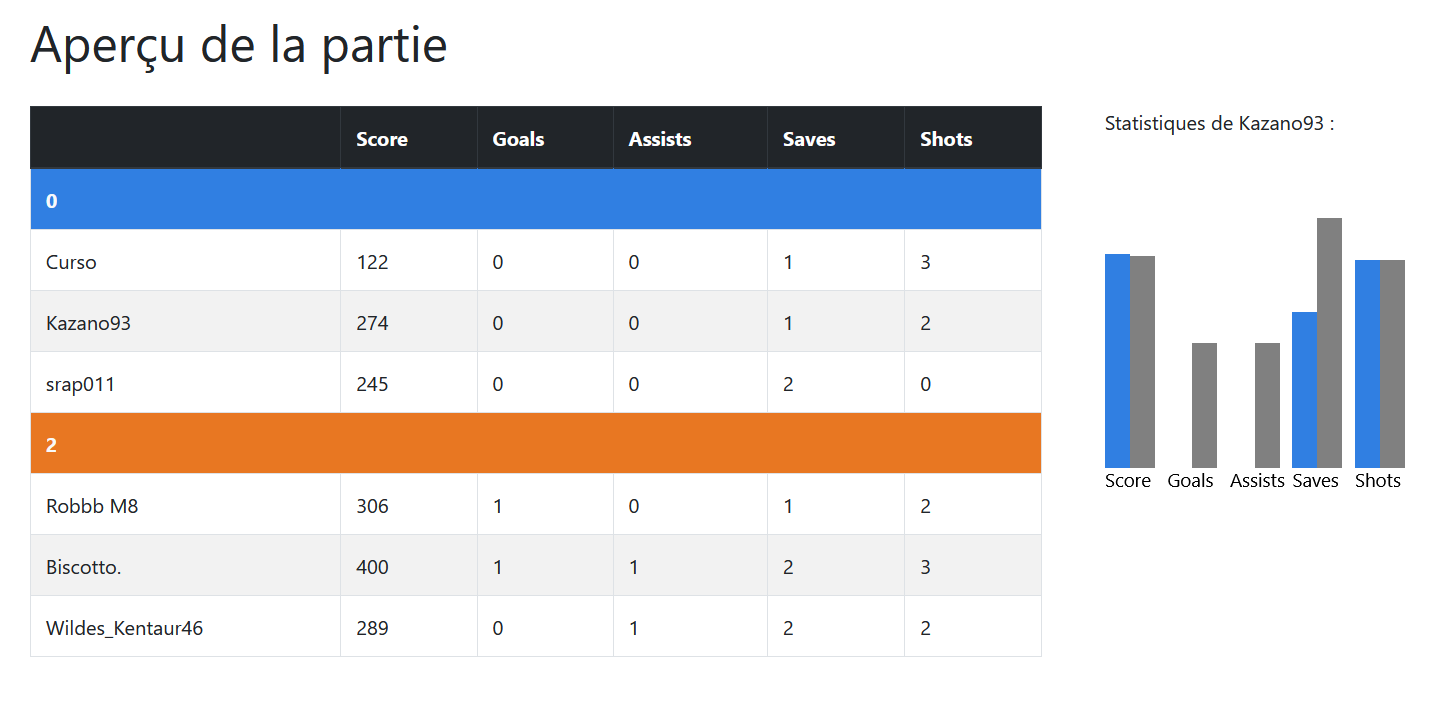
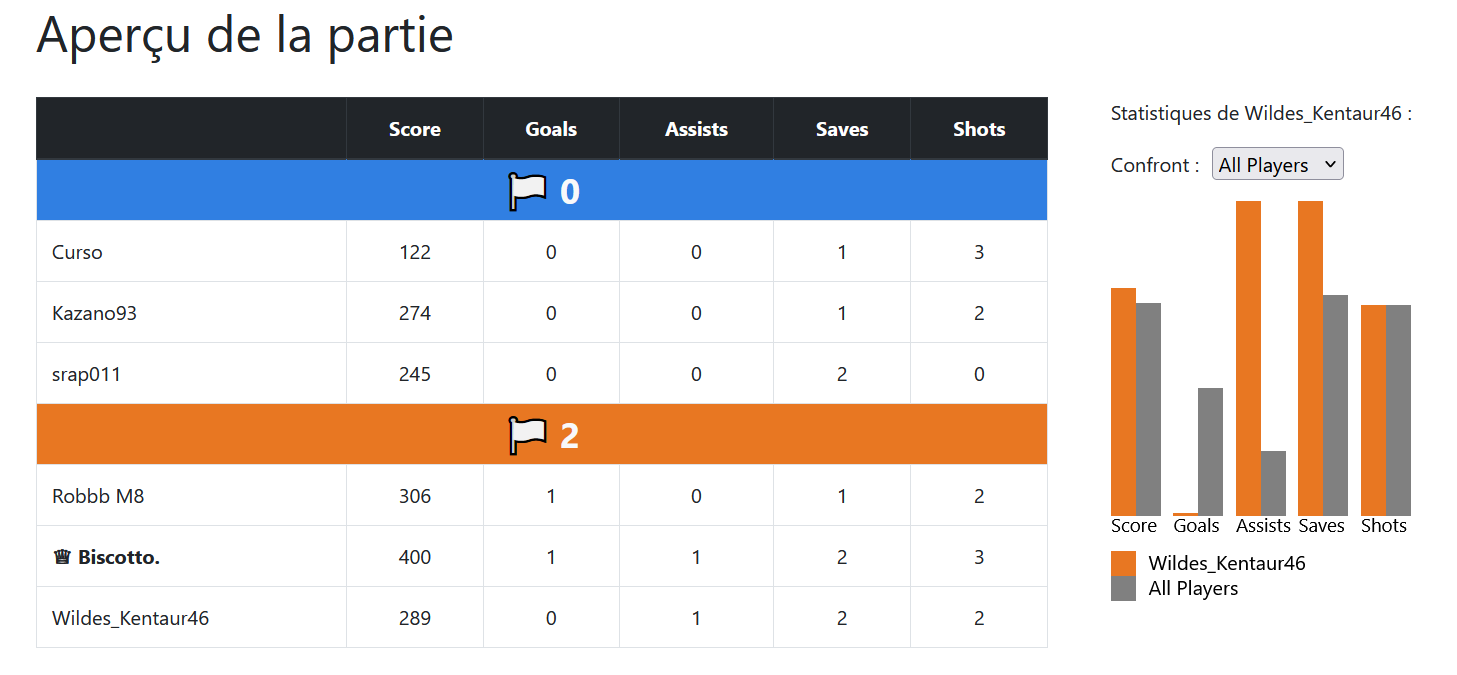
French => English + couleur de la timeline.

diff --git a/script_stats.js b/script_stats.js
@@ -388,7 +388,7 @@ function displayTimeline(data) {
     .attr("y", height / 4 - 5)
     .attr("width", width)
     .attr("height", 18)
-    .attr("fill", "blue");
+    .attr("fill", "#307fe2");
 
   svg
     .append("rect")
@@ -396,16 +396,16 @@ function displayTimeline(data) {
     .attr("y", height / 3 - 5)
     .attr("width", width)
     .attr("height", 18)
-    .attr("fill", "orange");
+    .attr("fill", "#e87722");
 
   // Ajout du texte pour chaque équipe
   svg
     .append("text")
     .attr("x", -10)
     .attr("y", height / 4)
-    .attr("text-anchor", "end")
-    .text("Equipe Bleue")
-    .attr("fill", "blue")
+    .attr("text-anchor", "end") 
+    .text("Blue Team")
+    .attr("fill", "#307fe2")
     .attr("font-size", "13px");
 
   svg
@@ -413,15 +413,15 @@ function displayTimeline(data) {
     .attr("x", -10)
     .attr("y", height / 3)
     .attr("text-anchor", "end")
-    .text("Equipe Orange")
-    .attr("fill", "orange")
+    .text("Orange Team")
+    .attr("fill", "#e87722")
     .attr("font-size", "13px");
 
   svg
     .append("text")
     .attr("x", width / 2)
     .attr("y", height / 2 - 10)
-    .text(`La partie à durée : ${maxDuration}`)
+    .text(`The game lasted ${maxDuration}`)
     .attr("font-size", "12px")
     .style("dominant-baseline", "hanging");
 
@@ -541,9 +541,9 @@ function displayTimeline(data) {
   Partie 4: La légende
   */
   const legendData = [
-    { icon: "img/goal_icon.png", description: "But" },
-    { icon: "img/save_icon.png", description: "Sauvegarde" },
-    { icon: "img/demolition_icon.png", description: "Joueur détruit" },
+    { icon: "img/goal_icon.png", description: "Goal" },
+    { icon: "img/save_icon.png", description: "Save" },
+    { icon: "img/demolition_icon.png", description: "Destroyed player (joueur détruit)" },
   ];
 
   const legendContainer = d3.select("#legend");
@@ -1159,7 +1159,7 @@ function getMaxTempsPartie(nbFrames, framerate) {
   const dureeEnMinutes = Math.floor(dureeEnSecondes / 60); // Partie entière des minutes
   const dureeEnSecondesRestantes = Math.round(dureeEnSecondes % 60); // Partie en secondes
 
-  return `${dureeEnMinutes} minutes et ${dureeEnSecondesRestantes} secondes`;
+  return `${dureeEnMinutes} minutes and ${dureeEnSecondesRestantes} seconds`;
 }
 
 function getListeFramesHighlights(data) {
@@ -1311,7 +1311,7 @@ function displayPlayerStats(data) {
 
   var width = d3.select("body").node().getBoundingClientRect().width;
 
-  d3.selectAll("#content").append("h1").text("Statistiques par équipe");
+  d3.selectAll("#content").append("h1").text("Team Statistics");
   displayOverviewStats(overviewStats);
 
   var locationBall = getLocations(data, 0);
@@ -1405,7 +1405,7 @@ function handleRowSelection(teamsStats, selectedPlayer) {
 
   var playerName = selectedPlayer.Name;
 
-  var textPlayerName = "Statistiques de " + playerName + " : ";
+  var textPlayerName = playerName + "'s statistics : ";
 
   d3.select("#barChartSelect").append("p").text(textPlayerName);
 

diff --git a/stats.html b/stats.html
@@ -8,21 +8,6 @@
     <!-- Bootstrap CSS -->
     <link href="https://maxcdn.bootstrapcdn.com/bootstrap/4.0.0/css/bootstrap.min.css" rel="stylesheet">
     <link href="style.css" rel="stylesheet">
-    <link href="style.css" rel="stylesheet">
-    
-
-    <!-- Custom CSS -->
-    <style>
-        #timeline {
-            display: none;
-            border: 3px solid black;
-            height: 270px;
-        }
-
-        .timeline-visible {
-            display: block;
-        }
-    </style>
 
     <script type="text/javascript" src="https://cdnjs.cloudflare.com/ajax/libs/d3/3.5.17/d3.min.js"></script>
     <script src="https://d3js.org/d3.v5.min.js"></script>
@@ -63,7 +48,7 @@
 
     <!-- Table Section -->
     <div class="container mt-3">
-        <h1> Aperçu de la partie </h1>
+        <h1> Scoreboard </h1>
 
         <!-- Create an empty table with an id -->
         <div class="table-and-chart-container">
@@ -94,7 +79,7 @@
 
     <!-- Sélection d'un fichier -->
     <div id="element-ancre">
-        <label for="select-files">Choisir un fichier : </label></br>
+        <label for="select-files">Chose a file : </label></br>
         <select id="select-files"></select>
     </div>
 

diff --git a/style.css b/style.css
@@ -95,4 +95,13 @@ text {
 	/* padding: 10px; */ 
 	/* background-color: #f0f0f0;
 	border: 1px solid #ccc; */
-  }
+}
+#timeline {
+	display: none;
+	border: 3px solid black;
+	height: 270px;
+}
+
+.timeline-visible {
+	display: block;
+}
